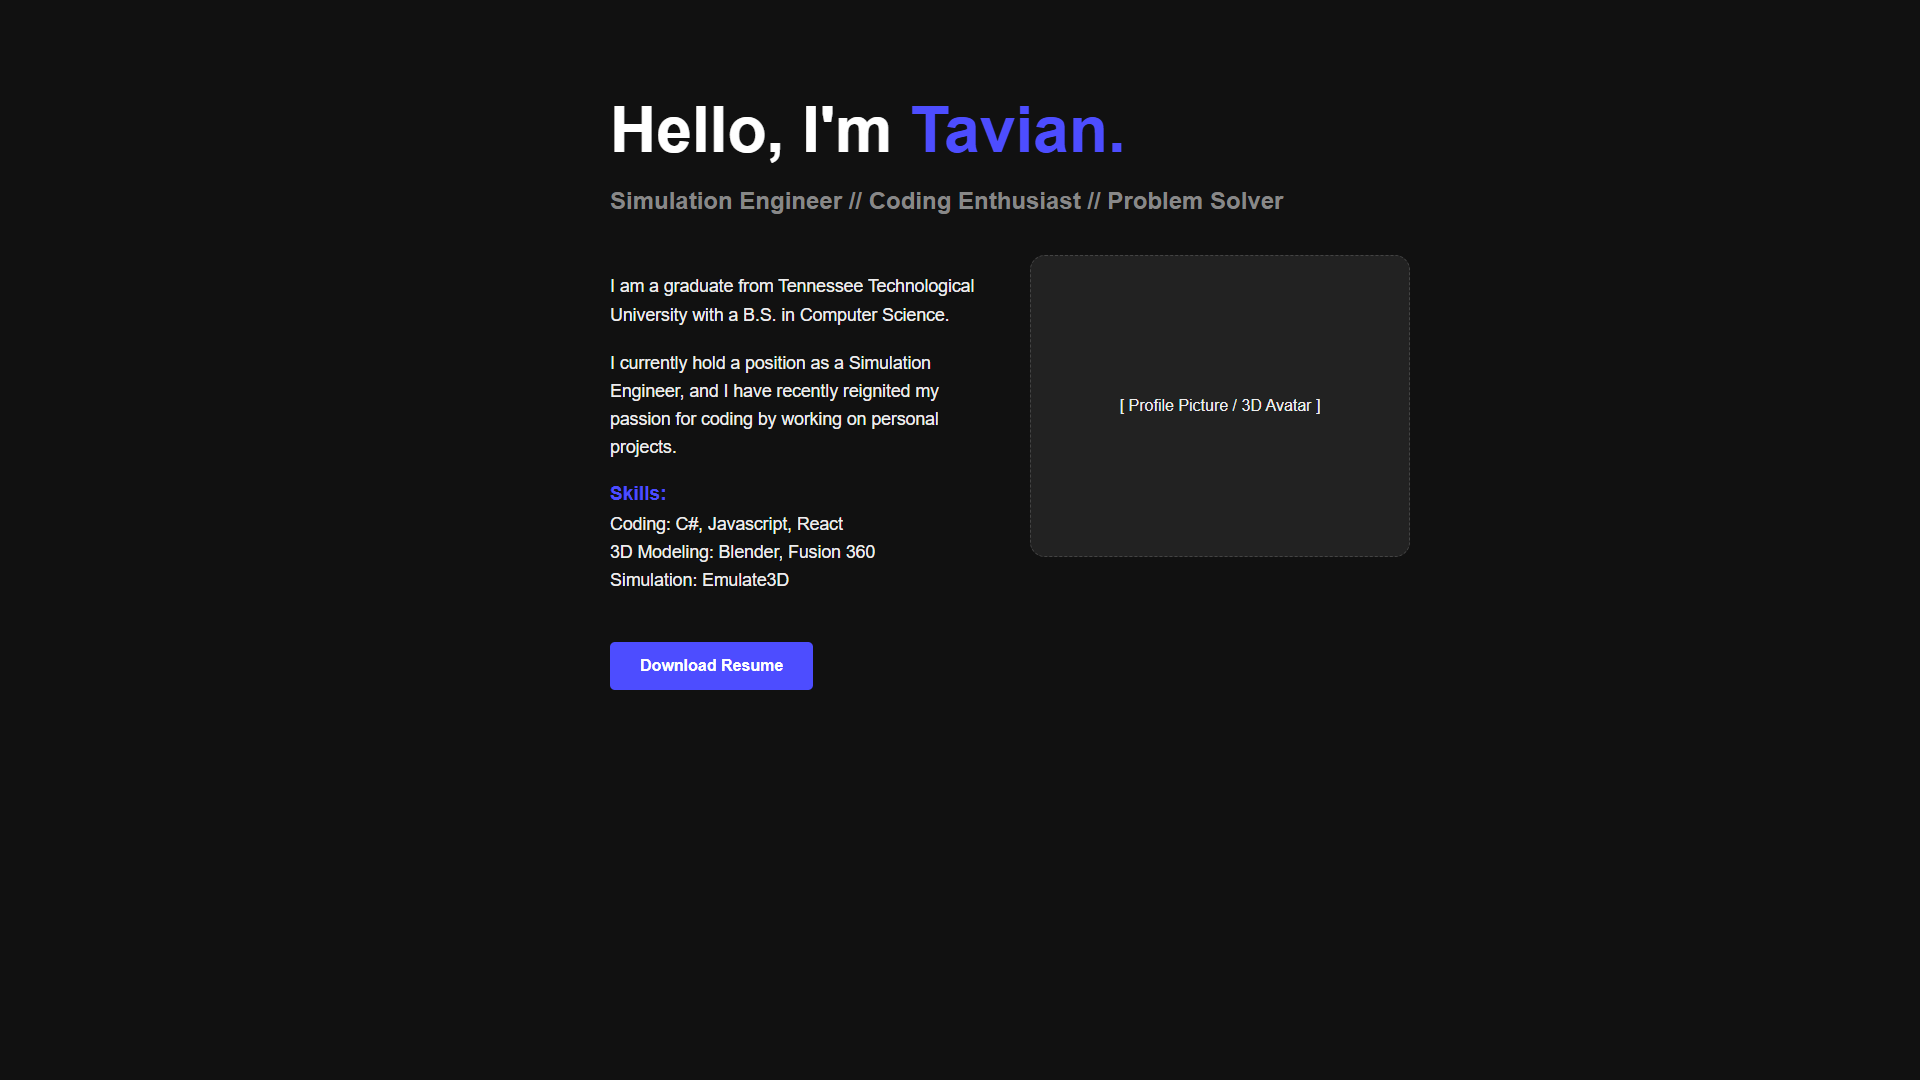
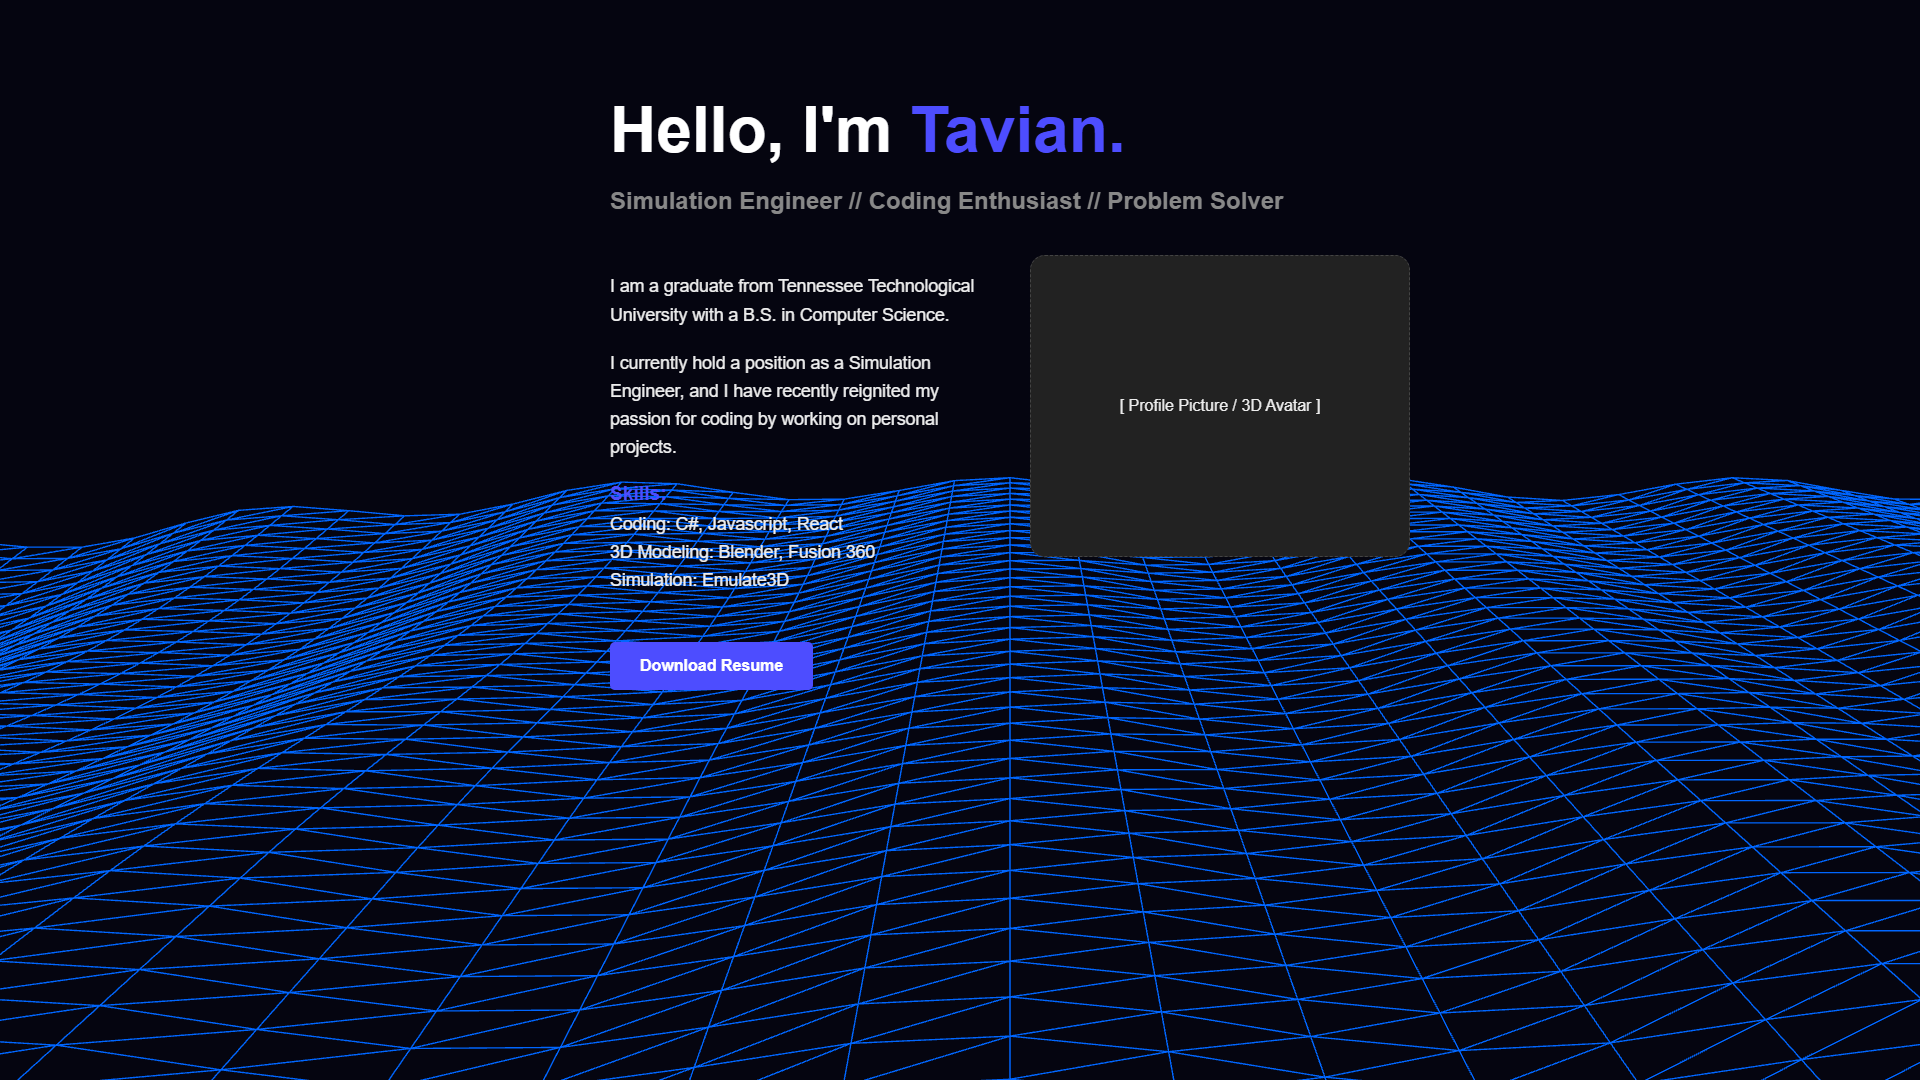
Added wireframe terrain to "about" page

diff --git a/src/components/WireframeTerrain.jsx b/src/components/WireframeTerrain.jsx
@@ -1,0 +1,109 @@
+{/*
+Filename: WireframeTerrain.jsx
+Author: Tavian Dodd
+Date Created: 01/24/2026
+Last Updated: 01/24/2026
+*/}
+
+import { useRef, useMemo, useEffect } from 'react' 
+import { Canvas, useFrame } from '@react-three/fiber'
+import * as THREE from 'three'
+
+const TerrainMaterial = {
+  uniforms: {
+    uTime: { value: 0 },
+    uMouse: { value: new THREE.Vector2(0, 0) },
+    uColor: { value: new THREE.Color('#00aaff') } // wireframe color
+  },
+  vertexShader: `
+    uniform float uTime;
+    uniform vec2 uMouse;
+    varying float vElevation;
+
+    void main() {
+        vec3 pos = position;
+
+        float dist = distance(uv, uMouse);
+
+        float intensity = 1.0 - smoothstep(0.0, 0.5, dist);
+        
+        float wave = sin(pos.x * 2.0 + uTime) * 0.1;
+
+        pos.z -= (intensity * 1.5) - wave; 
+
+        vElevation = pos.z; // Pass height to fragment shader if we want to change color based on depth
+
+        gl_Position = projectionMatrix * modelViewMatrix * vec4(pos, 1.0);
+    }
+  `,
+  fragmentShader: `
+        uniform vec3 uColor;
+        varying float vElevation;
+
+        void main() {
+        gl_FragColor = vec4(uColor, 1.0);
+    }
+  `
+}
+
+function TerrainPlane() {
+  const meshRef = useRef()
+  
+  // store mouse position globally
+  const mouseRef = useRef({ x: 0.5, y: 0.5 })
+
+  // definition of 'shaderArgs' for the mesh to use
+  const shaderArgs = useMemo(() => ({
+    uniforms: {
+      uTime: { value: 0 },
+      uMouse: { value: new THREE.Vector2(0, 0) },
+      uColor: { value: new THREE.Color('#00aaff') }
+    },
+    vertexShader: TerrainMaterial.vertexShader,
+    fragmentShader: TerrainMaterial.fragmentShader,
+    wireframe: true
+  }), [])
+
+  // global mouse move listener
+  useEffect(() => {
+    const handleMouseMove = (e) => {
+      mouseRef.current = {
+        x: e.clientX / window.innerWidth,
+        y: 1 - (e.clientY / window.innerHeight)
+      }
+    }
+
+    window.addEventListener('mousemove', handleMouseMove)
+    return () => window.removeEventListener('mousemove', handleMouseMove)
+  }, [])
+
+  useFrame((state) => {
+    if (!meshRef.current) return
+
+    // update time
+    meshRef.current.material.uniforms.uTime.value = state.clock.getElapsedTime()
+
+    // reads global mouse position to update shader uniform
+    meshRef.current.material.uniforms.uMouse.value.lerp(
+      new THREE.Vector2(mouseRef.current.x, mouseRef.current.y), 
+      0.1
+    )
+  })
+
+  return (
+    <mesh ref={meshRef} rotation={[-Math.PI / 2.5, 0, 0]} position={[0, -1, 0]}>
+      <planeGeometry args={[30, 12, 64, 64]} />
+      <shaderMaterial attach="material" args={[shaderArgs]} transparent side={THREE.DoubleSide} />
+    </mesh>
+  )
+}
+
+export default function WireframeTerrain() {
+    return (
+        <div style={{ position: 'absolute', top: 0, left: 0, width: '100%', height: '100%', zIndex: 0, background: '#050510' }}>
+            <Canvas camera={{ position: [0, 0, 5], fov: 50 }}>
+                <TerrainPlane />
+            </Canvas>
+        </div>
+    )
+}

diff --git a/src/pages/About.jsx b/src/pages/About.jsx
@@ -5,20 +5,30 @@ Date Created: 01/21/2026
 Last Updated: 01/21/2026
 */}
 
+import WireframeTerrain from "../components/WireframeTerrain";
+
 const About = () => {
   return (
-
     <div style={{
+      position: 'relative',
       width: '100vw',
       minHeight: '100vh',
       background: '#111',
       color: '#eee',
       padding: '50px',
-      fontFamily: 'Arial, sans-serif'
+      fontFamily: 'Arial, sans-serif',
+      overflow: 'hidden' 
     }}>
+
+      <WireframeTerrain />
       
       {/* header section */}
-      <div style={{ maxWidth: '800px', margin: '0 auto' }}>
+      <div style={{ 
+          position: 'relative', 
+          zIndex: 10,          
+          maxWidth: '800px', 
+          margin: '0 auto' 
+      }}>
         <h1 style={{ fontSize: '4rem', fontWeight: 'bold', color: '#fff', marginBottom: '10px' }}>
           Hello, I'm <span style={{ color: '#4d4dff' }}>Tavian.</span>
         </h1>
